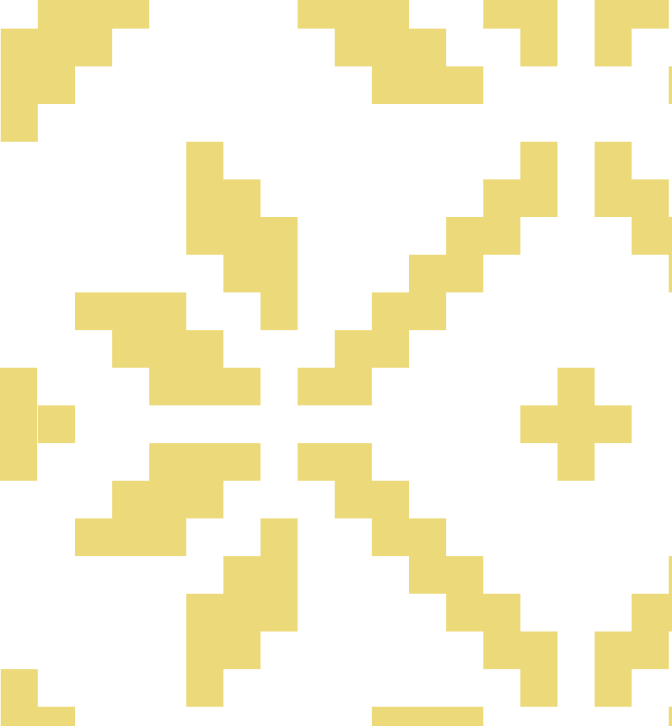
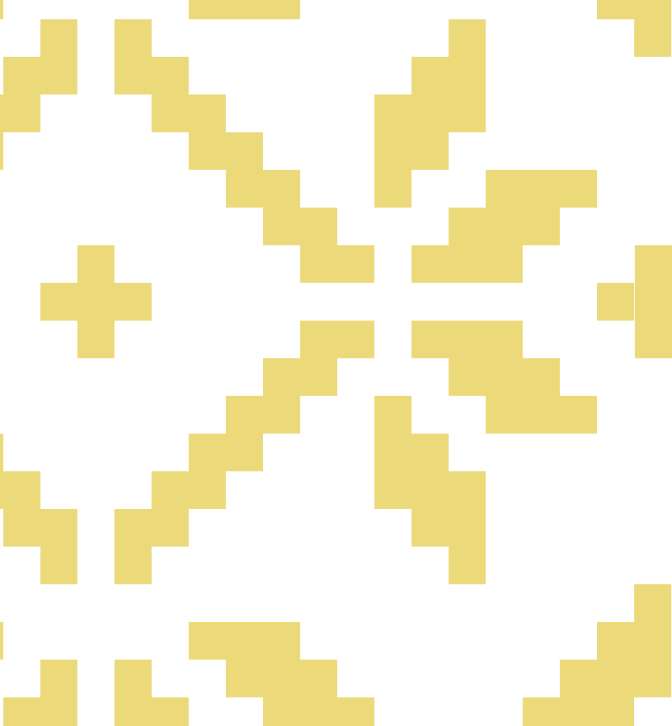
Project98

diff --git a/src/css/our_collection.css b/src/css/our_collection.css
@@ -47,16 +47,17 @@ img {
 }
 @media screen and (min-width: 768px) {
   .collection{
-    background-image: url(../img/our-collection-png/ornament-tablet-1x.png);
-    background-size: 135px 240px;
-    background-position-y: 325px;
+    background-image: url(../img/our-collection-png/tablet2x.png);
+    background-size: 100px 240px;
+    background-position-y: 240px;
     padding-top: 50px;
     padding-bottom: 100px;
 }
-@media screen and (min-width: 1110px) {
+@media screen and (min-width: 1280px) {
   .collection{
-    background-image: url(../img/our-collection-png/ornament-desktop-1x.png);
-    background-position-y: 350px;
+    background-image: url(../img/our-collection-png/desktop2x.png);
+    background-size: 100px 240px;
+    background-position-y: 266px;
     padding-top: 70px;
     padding-bottom: 150px;
   }
@@ -74,12 +75,16 @@ img {
 }
 
 .our-list{
-    list-style: none;
+    /* list-style: none;
     display: flex;
     flex-direction: column;
     justify-content: center;
     align-items: center;
-    padding-left: 0;
+    padding-left: 0; */
+  display: flex;
+  justify-content: space-between;
+  flex-wrap: wrap;
+  gap: 20px;
 }
 
 @media screen and (min-width: 768px) {
